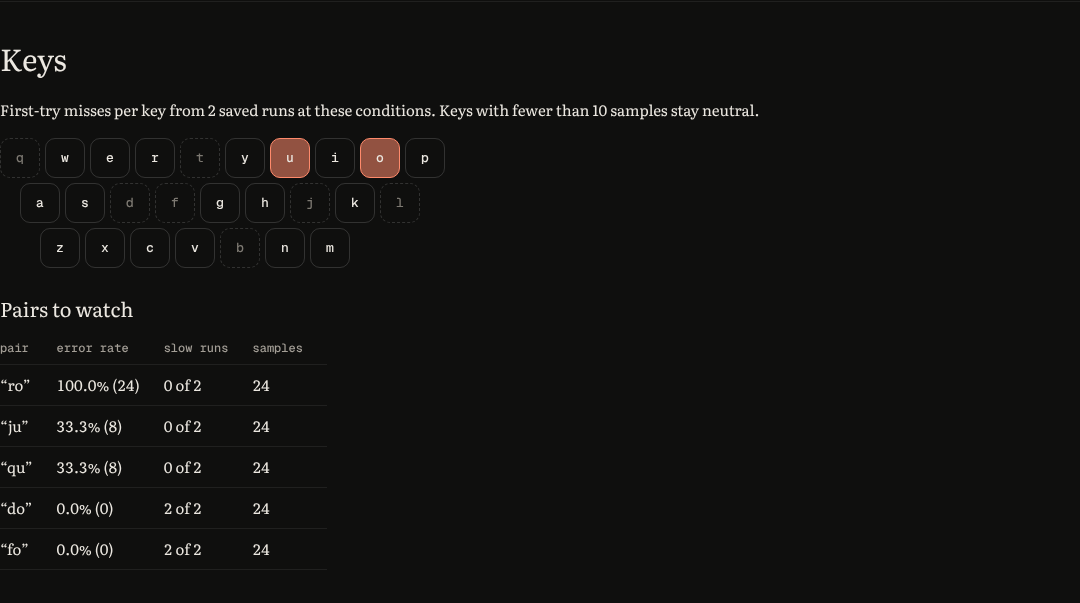
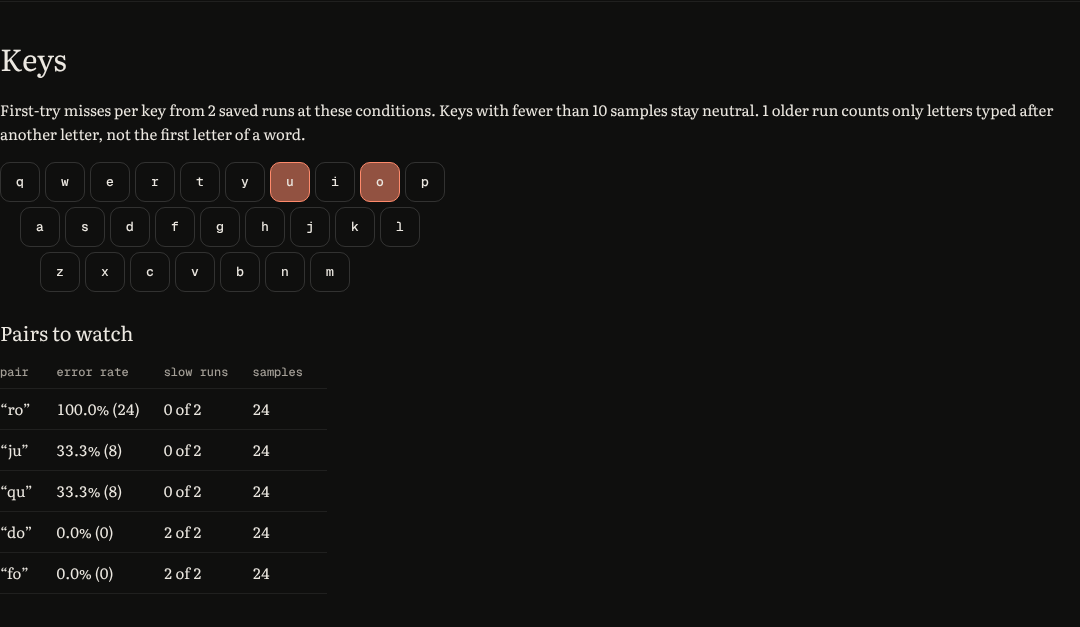
Count every letter directly in per-key miss rates
Run summaries now save versioned per-letter first-attempt counts, so
word-initial presses (every "q" in "quick") reach the heatmap. Summaries
saved before this fall back to pair-derived counts, and the key note says
how many runs only count letters typed after another letter. Per-letter
counts follow pattern retention (newest 120 runs).

The heatmap spec writes docs screenshots only when SCREENSHOTS is set.

Claude-Session: https://claude.ai/code/session_01SaBNo9RHRaTR8cCUjK1iLD

diff --git a/src/insights.js b/src/insights.js
@@ -2,6 +2,23 @@ import { conditionKey, replayAttempt, summarizePatterns, textId } from './typing
 
 export const MAX_RUN_SUMMARIES = 1000;
 export const MAX_PATTERN_RUNS = 120;
+// Per-letter first-attempt counts saved with each run. Summaries without this version predate
+// them and fall back to pair-derived counts, which miss letters at the start of a word.
+export const KEY_COUNTS_VERSION = 1;
+
+// [letter, tries, first-try errors] for every a–z first attempt, whatever came before it.
+function keyCounts(replay) {
+  const keys = new Map();
+  for (const first of replay.firstAttempts) {
+    const letter = (first.expected || '').toLowerCase();
+    if (!/^[a-z]$/.test(letter)) continue;
+    const k = keys.get(letter) || [letter, 0, 0];
+    k[1] += 1;
+    if (!first.correct) k[2] += 1;
+    keys.set(letter, k);
+  }
+  return [...keys.values()];
+}
 
 export function runRecord(attempt, at = attempt.at || null) {
   const replay = attempt.summary || replayAttempt(attempt);
@@ -16,12 +33,15 @@ export function runRecord(attempt, at = attempt.at || null) {
     firstDailyAttempt: attempt.firstDailyAttempt,
     // Keep counts and each run's measured median, rather than another keystroke log.
     patterns: evidence.pairs.map((p) => [p.pair, p.observations, p.errors, p.timings.length, p.medianMs, p.slowdownMs]),
+    // Same eligibility as patterns (no drills, races or repeated dailies).
+    keys: evidence.attemptCount ? keyCounts(replay) : [],
+    keysVersion: KEY_COUNTS_VERSION,
   };
 }
 
 export function retainRuns(runs) {
   const kept = runs.slice(-MAX_RUN_SUMMARIES);
-  return kept.map((run, i) => i < kept.length - MAX_PATTERN_RUNS ? { ...run, patterns: [] } : run);
+  return kept.map((run, i) => i < kept.length - MAX_PATTERN_RUNS ? { ...run, patterns: [], keys: [] } : run);
 }
 
 export const validRun = (run) => run.status === 'complete' && !run.interrupted;
@@ -115,18 +135,30 @@ const DAILY_TEXTS = [
 // Stilltype rule: no confident per-key or per-pair claim below this many first attempts.
 export const MIN_PATTERN_SAMPLES = 10;
 
-// Compact pattern memory → per-key and per-pair totals. A pair's first attempt is a try at its
-// second letter, so a key's miss rate is first-attempt errors on that letter over its tries.
+const directKeys = (run) => run.keysVersion === KEY_COUNTS_VERSION && Array.isArray(run.keys) ? run.keys : null;
+
+// Compact run memory → per-key and per-pair totals. A key's miss rate is first-attempt errors on
+// that letter over its tries. Older summaries without per-letter counts fall back to their pairs
+// (a pair's first attempt is a try at its second letter), so they only count letters typed after
+// another letter; pairDerivedRuns says how many runs that applies to.
 export function keyAnalysis(runs, limit = 8) {
-  const recent = runs.filter((r) => validRun(r) && (r.patterns || []).length).slice(-MAX_PATTERN_RUNS);
+  const recent = runs.filter((r) => validRun(r) && ((r.patterns || []).length || directKeys(r)?.length))
+    .slice(-MAX_PATTERN_RUNS);
   const keys = new Map();
   const pairs = new Map();
+  let pairDerivedRuns = 0;
+  const addKey = (key, samples, errors) => {
+    const k = keys.get(key) || { key, samples: 0, errors: 0 };
+    k.samples += samples;
+    k.errors += errors;
+    keys.set(key, k);
+  };
   for (const run of recent) {
-    for (const [pair, observations, errors, timingCount, medianMs, slowdownMs] of run.patterns) {
-      const k = keys.get(pair[1]) || { key: pair[1], samples: 0, errors: 0 };
-      k.samples += observations;
-      k.errors += errors;
-      keys.set(pair[1], k);
+    const direct = directKeys(run);
+    if (direct) for (const [key, samples, errors] of direct) addKey(key, samples, errors);
+    else pairDerivedRuns += 1;
+    for (const [pair, observations, errors, timingCount, medianMs, slowdownMs] of run.patterns || []) {
+      if (!direct) addKey(pair[1], observations, errors);
       const p = pairs.get(pair) || { pair, samples: 0, errors: 0, slowRuns: 0, runs: 0 };
       p.samples += observations;
       p.errors += errors;
@@ -138,6 +170,7 @@ export function keyAnalysis(runs, limit = 8) {
   const rate = (v) => ({ ...v, missRate: v.samples ? v.errors / v.samples : 0, enough: v.samples >= MIN_PATTERN_SAMPLES });
   return {
     runs: recent.length,
+    pairDerivedRuns,
     keys: Object.fromEntries([...keys.values()].map((k) => [k.key, rate(k)])),
     pairs: [...pairs.values()].map(rate).filter((p) => p.enough && (p.errors > 0 || p.slowRuns > 0))
       .sort((a, b) => b.missRate - a.missRate || b.slowRuns - a.slowRuns || b.samples - a.samples || a.pair.localeCompare(b.pair))

diff --git a/e2e/key-heatmap.spec.js b/e2e/key-heatmap.spec.js
@@ -23,25 +23,35 @@ function trace(id, at) {
   return { ...completeAttempt(attempt, { endedAt: t + 120 }), at, fresh: true };
 }
 
-test('Progress shows a per-key miss heatmap and ranked pairs with sample counts', async ({ page, supabase }) => {
+// Committed docs images are only rewritten on request (SCREENSHOTS=1); normal runs keep them in test output.
+const shot = (testInfo, name) => (process.env.SCREENSHOTS ? `docs/screenshots/key-heatmap/${name}` : testInfo.outputPath(name));
+
+// A summary saved before per-letter counts existed: pairs only.
+const legacy = ({ keys, keysVersion, ...rest }) => rest;
+
+test('Progress shows a per-key miss heatmap and ranked pairs with sample counts', async ({ page, supabase }, testInfo) => {
   await page.setViewportSize({ width: 1280, height: 800 });
   await page.clock.install({ time: new Date('2026-09-30T12:00:00Z') });
   const user = supabase.addUser('keys@stilltype.test');
   const traces = [trace('keys-a', '2026-09-28T12:00:00Z'), trace('keys-b', '2026-09-29T12:00:00Z')];
   supabase.profiles.set(user.id, { data: { version: 2, preferences: {}, attempts: traces,
-    runs: traces.map((t) => runRecord(t)), loops: [], seenTextIds: traces.map((t) => t.textId), bests: {}, updatedAt: '2026-09-29T12:00:00Z' } });
+    runs: [legacy(runRecord(traces[0])), runRecord(traces[1])], loops: [], seenTextIds: traces.map((t) => t.textId), bests: {}, updatedAt: '2026-09-29T12:00:00Z' } });
   await openApp(page);
   await signInWithEmail(page, user.email);
   await openView(page, 'Progress');
 
   const heatmap = page.locator('#key-heatmap');
+  const key = (letter) => heatmap.locator('.key').filter({ hasText: new RegExp(`^${letter}$`) });
   await expect(heatmap.locator('.key')).toHaveCount(26);
-  await expect(heatmap.locator('.key').filter({ hasText: /^o$/ })).toHaveAttribute('data-heat', '3');
-  await expect(heatmap.locator('.key').filter({ hasText: /^o$/ })).toHaveAttribute('title', 'o: 33.3% miss · 72 samples');
-  await expect(heatmap.locator('.key').filter({ hasText: /^h$/ })).toHaveAttribute('data-heat', '0');
-  await expect(heatmap.locator('.key').filter({ hasText: /^q$/ })).toHaveAttribute('title', 'q: not enough samples (0)');
-  await expect(heatmap.locator('.key').filter({ hasText: /^q$/ })).toHaveAttribute('data-heat', 'none');
+  // New run: all 48 "o" presses (24 missed), including word-initial "over". Older run: 36 mid-word presses (12 missed).
+  await expect(key('o')).toHaveAttribute('data-heat', '3');
+  await expect(key('o')).toHaveAttribute('title', 'o: 42.9% miss · 84 samples');
+  await expect(key('h')).toHaveAttribute('data-heat', '0');
+  // Every "q" starts a word ("quick"): only the run with per-letter counts sees them.
+  await expect(key('q')).toHaveAttribute('title', 'q: 0.0% miss · 12 samples');
+  await expect(key('q')).toHaveAttribute('data-heat', '0');
   await expect(page.locator('#key-note')).toContainText('2 saved runs');
+  await expect(page.locator('#key-note')).toContainText('1 older run counts only letters typed after another letter');
 
   const rows = page.locator('#pairs-table tbody tr');
   await expect(page.locator('#pairs-table')).toBeVisible();
@@ -53,12 +63,12 @@ test('Progress shows a per-key miss heatmap and ranked pairs with sample counts'
   const section = page.locator('section[aria-labelledby="keys-heading"]');
   await section.scrollIntoViewIfNeeded();
   await page.emulateMedia({ colorScheme: 'dark' });
-  await section.screenshot({ path: 'docs/screenshots/key-heatmap/keys-dark.png' });
+  await section.screenshot({ path: shot(testInfo, 'keys-dark.png') });
   await page.emulateMedia({ colorScheme: 'light' });
   await expect(page.locator('html')).toHaveAttribute('data-theme', 'light');
-  await section.screenshot({ path: 'docs/screenshots/key-heatmap/keys-light.png' });
+  await section.screenshot({ path: shot(testInfo, 'keys-light.png') });
   await page.setViewportSize({ width: 390, height: 844 });
   await page.emulateMedia({ colorScheme: 'dark' });
   await section.scrollIntoViewIfNeeded();
-  await section.screenshot({ path: 'docs/screenshots/key-heatmap/keys-mobile-dark.png' });
+  await section.screenshot({ path: shot(testInfo, 'keys-mobile-dark.png') });
 });

diff --git a/tests/insights.test.js b/tests/insights.test.js
@@ -1,7 +1,7 @@
 import test from 'node:test';
 import assert from 'node:assert/strict';
-import { CORPUS_VERSION, conditionKey, quoteCorpus, selectPassage } from '../src/typing.js';
-import { dailyPassage, filterRuns, keyAnalysis, recurringTargets, retainRuns, trendRun, weeklyChange } from '../src/insights.js';
+import { CORPUS_VERSION, completeAttempt, conditionKey, createAttempt, quoteCorpus, selectPassage } from '../src/typing.js';
+import { KEY_COUNTS_VERSION, dailyPassage, filterRuns, keyAnalysis, recurringTargets, retainRuns, runRecord, trendRun, weeklyChange } from '../src/insights.js';
 
 const conditions = { mode: 'words', count: 25, wordList: '1k', corpus: CORPUS_VERSION };
 const run = (id, overrides = {}) => ({ id, at: '2026-09-29T12:00:00Z', status: 'complete', kind: 'test',
@@ -49,6 +49,9 @@ test('run summaries outlive trace retention, while pattern memory stays bounded'
   assert.equal(kept.length, 1000);
   assert.equal(kept[0].id, '100');
   assert.equal(kept.filter((r) => r.patterns.length).length, 120);
+  assert.equal(kept.filter((r) => r.keys?.length).length, 0);
+  const withKeys = retainRuns(Array.from({ length: 200 }, (_, i) => run(String(i), { keys: [['t', 3, 0]], keysVersion: KEY_COUNTS_VERSION })));
+  assert.equal(withKeys.filter((r) => r.keys.length).length, 120);
   assert.equal(kept[0].score.wpm, 60);
 });
 
@@ -93,4 +96,33 @@ test('key analysis sums first attempts per key and ranks pairs only with enough 
   assert.equal(result.keys.n.enough, false);
   assert.equal(result.keys.n.samples, 8);
   assert.deepEqual(result.pairs.map((p) => [p.pair, p.samples, p.errors, p.slowRuns]), [['th', 20, 2, 1]]);
+  assert.equal(result.pairDerivedRuns, 2);
+});
+
+test('run summaries count every letter directly, including word-initial presses', () => {
+  const text = 'quiet quay';
+  const attempt = createAttempt({ id: 'q', text, textId: 'q', conditions });
+  attempt.startedAt = 0;
+  // Mistype the first "q" (word-initial) and the "i" after "u" (mid-word).
+  attempt.events = [...text].map((char, position) => ({ type: 'insert', position, offsetMs: (position + 1) * 100, accepted: true,
+    text: position === 0 ? 'w' : position === 2 ? 'o' : char }));
+  const record = runRecord({ ...completeAttempt(attempt, { endedAt: 1100 }), fresh: true });
+  assert.equal(record.keysVersion, KEY_COUNTS_VERSION);
+  const keys = Object.fromEntries(record.keys.map(([key, samples, errors]) => [key, { samples, errors }]));
+  assert.deepEqual(keys.q, { samples: 2, errors: 1 });
+  assert.deepEqual(keys.i, { samples: 1, errors: 1 });
+  assert.equal(keys[' '], undefined);
+  assert.equal(record.keys.reduce((n, k) => n + k[1], 0), 9);
+  // Pair memory alone would see no "q" at all: both are word-initial.
+  assert.equal(record.patterns.some(([pair]) => pair[1] === 'q'), false);
+
+  // Direct counts win over pairs; an older summary without them still contributes its pairs.
+  const direct = run('new', { keysVersion: KEY_COUNTS_VERSION, keys: [['q', 12, 3], ['h', 4, 0]] });
+  const legacy = run('old');
+  const result = keyAnalysis([legacy, direct]);
+  assert.equal(result.runs, 2);
+  assert.equal(result.pairDerivedRuns, 1);
+  assert.deepEqual(result.keys.q, { key: 'q', samples: 12, errors: 3, missRate: 0.25, enough: true });
+  assert.deepEqual(result.keys.h, { key: 'h', samples: 16, errors: 2, missRate: 2 / 16, enough: true });
+  assert.equal(keyAnalysis([run('drill', { kind: 'drill', patterns: [], keys: [], keysVersion: KEY_COUNTS_VERSION })]).runs, 0);
 });

diff --git a/src/app.js b/src/app.js
@@ -1128,7 +1128,9 @@ function renderTraining() {
 function renderKeys(runs) {
   const analysis = keyAnalysis(runs);
   const pct = (v) => `${(v * 100).toFixed(1)}%`;
-  $('key-note').textContent = `First-try misses per key from ${analysis.runs} saved ${analysis.runs === 1 ? 'run' : 'runs'} at these conditions. Keys with fewer than ${MIN_PATTERN_SAMPLES} samples stay neutral.`;
+  const older = analysis.pairDerivedRuns;
+  $('key-note').textContent = `First-try misses per key from ${analysis.runs} saved ${analysis.runs === 1 ? 'run' : 'runs'} at these conditions. Keys with fewer than ${MIN_PATTERN_SAMPLES} samples stay neutral.${older
+    ? ` ${older} older ${older === 1 ? 'run counts' : 'runs count'} only letters typed after another letter, not the first letter of a word.` : ''}`;
   $('key-heatmap').replaceChildren(...['qwertyuiop', 'asdfghjkl', 'zxcvbnm'].map((letters) => {
     const row = element('div', '', 'key-row');
     for (const letter of letters) {
